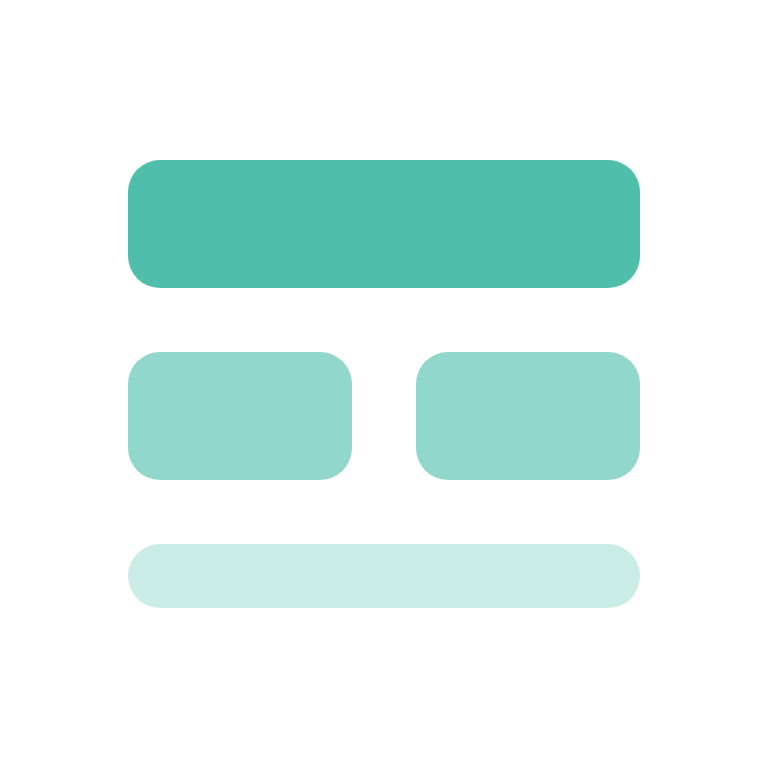
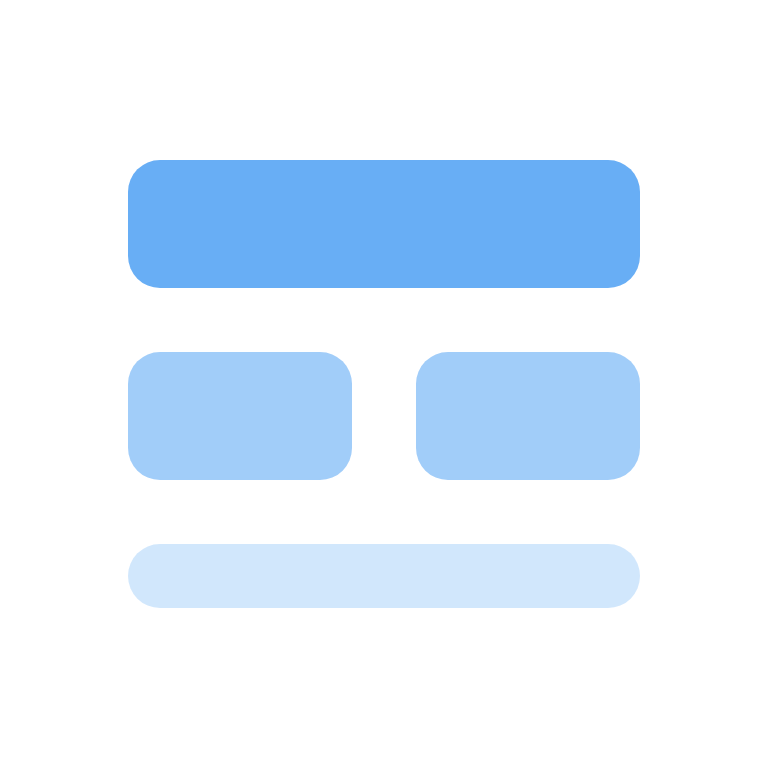
Draw the grounds in black and white, and what matters in blue

Changed region(s): [[0.1562, 0.1875, 0.8438, 0.375], [0.5312, 0.4375, 0.8438, 0.625], [0.1562, 0.4375, 0.4688, 0.625]]

diff --git a/tokens.css b/tokens.css
@@ -4,22 +4,22 @@
 
 :root {
   color-scheme: light;
-  --sunken: #E7EBE3;
-  --bg: #EFF2ED;
-  --surface: #FBFCF9;
+  --sunken: #E9E9E9;
+  --bg: #F1F1F1;
+  --surface: #FBFBFB;
   --raised: #FFFFFF;
-  --faint: #7E8C84;
-  --muted: #5A6961;
-  --text: #16201B;
-  --accentDim: #DBE9E4;
-  --accent: #0E6A5F;
+  --faint: #888888;
+  --muted: #656565;
+  --text: #1D1D1D;
+  --accentDim: #D7E7F9;
+  --accent: #015DA2;
   --succeeded: #2E7D4F;
-  --running: #0E6A5F;
+  --running: #015DA2;
   --waiting: #96660A;
   --failed: #B23C1E;
-  --line: #DCE2D7;
-  --lineStrong: #C0CABB;
-  --accentLine: #ABC9C2;
+  --line: #DFDFDF;
+  --lineStrong: #C6C6C6;
+  --accentLine: #A5C5E7;
   --onAccent: #FFFFFF;
   --succeededFill: #DCEBE0;
   --succeededLine: #ADCDB9;
@@ -92,23 +92,23 @@
 @media (prefers-color-scheme: dark) {
   :root:not([data-theme="light"]) {
     color-scheme: dark;
-    --sunken: #0A0F0C;
-    --bg: #0E1310;
-    --surface: #151C18;
-    --raised: #1B2420;
-    --faint: #6D7B73;
-    --muted: #94A29A;
-    --text: #E4EAE3;
-    --accentDim: #12302A;
-    --accent: #4FBFAC;
+    --sunken: #0E0E0E;
+    --bg: #121212;
+    --surface: #1A1A1A;
+    --raised: #222222;
+    --faint: #777777;
+    --muted: #9E9E9E;
+    --text: #E8E8E8;
+    --accentDim: #0F2B46;
+    --accent: #68AEF5;
     --succeeded: #5FA773;
-    --running: #4FBFAC;
+    --running: #68AEF5;
     --waiting: #D9A441;
     --failed: #E0705A;
-    --line: #26312B;
-    --lineStrong: #35423A;
-    --accentLine: #21473F;
-    --onAccent: #0E1310;
+    --line: #2E2E2E;
+    --lineStrong: #3E3E3E;
+    --accentLine: #1C4165;
+    --onAccent: #121212;
     --succeededFill: #132A1C;
     --succeededLine: #264B33;
     --waitingFill: #2E2413;
@@ -120,23 +120,23 @@
 
 :root[data-theme="dark"] {
   color-scheme: dark;
-  --sunken: #0A0F0C;
-  --bg: #0E1310;
-  --surface: #151C18;
-  --raised: #1B2420;
-  --faint: #6D7B73;
-  --muted: #94A29A;
-  --text: #E4EAE3;
-  --accentDim: #12302A;
-  --accent: #4FBFAC;
+  --sunken: #0E0E0E;
+  --bg: #121212;
+  --surface: #1A1A1A;
+  --raised: #222222;
+  --faint: #777777;
+  --muted: #9E9E9E;
+  --text: #E8E8E8;
+  --accentDim: #0F2B46;
+  --accent: #68AEF5;
   --succeeded: #5FA773;
-  --running: #4FBFAC;
+  --running: #68AEF5;
   --waiting: #D9A441;
   --failed: #E0705A;
-  --line: #26312B;
-  --lineStrong: #35423A;
-  --accentLine: #21473F;
-  --onAccent: #0E1310;
+  --line: #2E2E2E;
+  --lineStrong: #3E3E3E;
+  --accentLine: #1C4165;
+  --onAccent: #121212;
   --succeededFill: #132A1C;
   --succeededLine: #264B33;
   --waitingFill: #2E2413;
